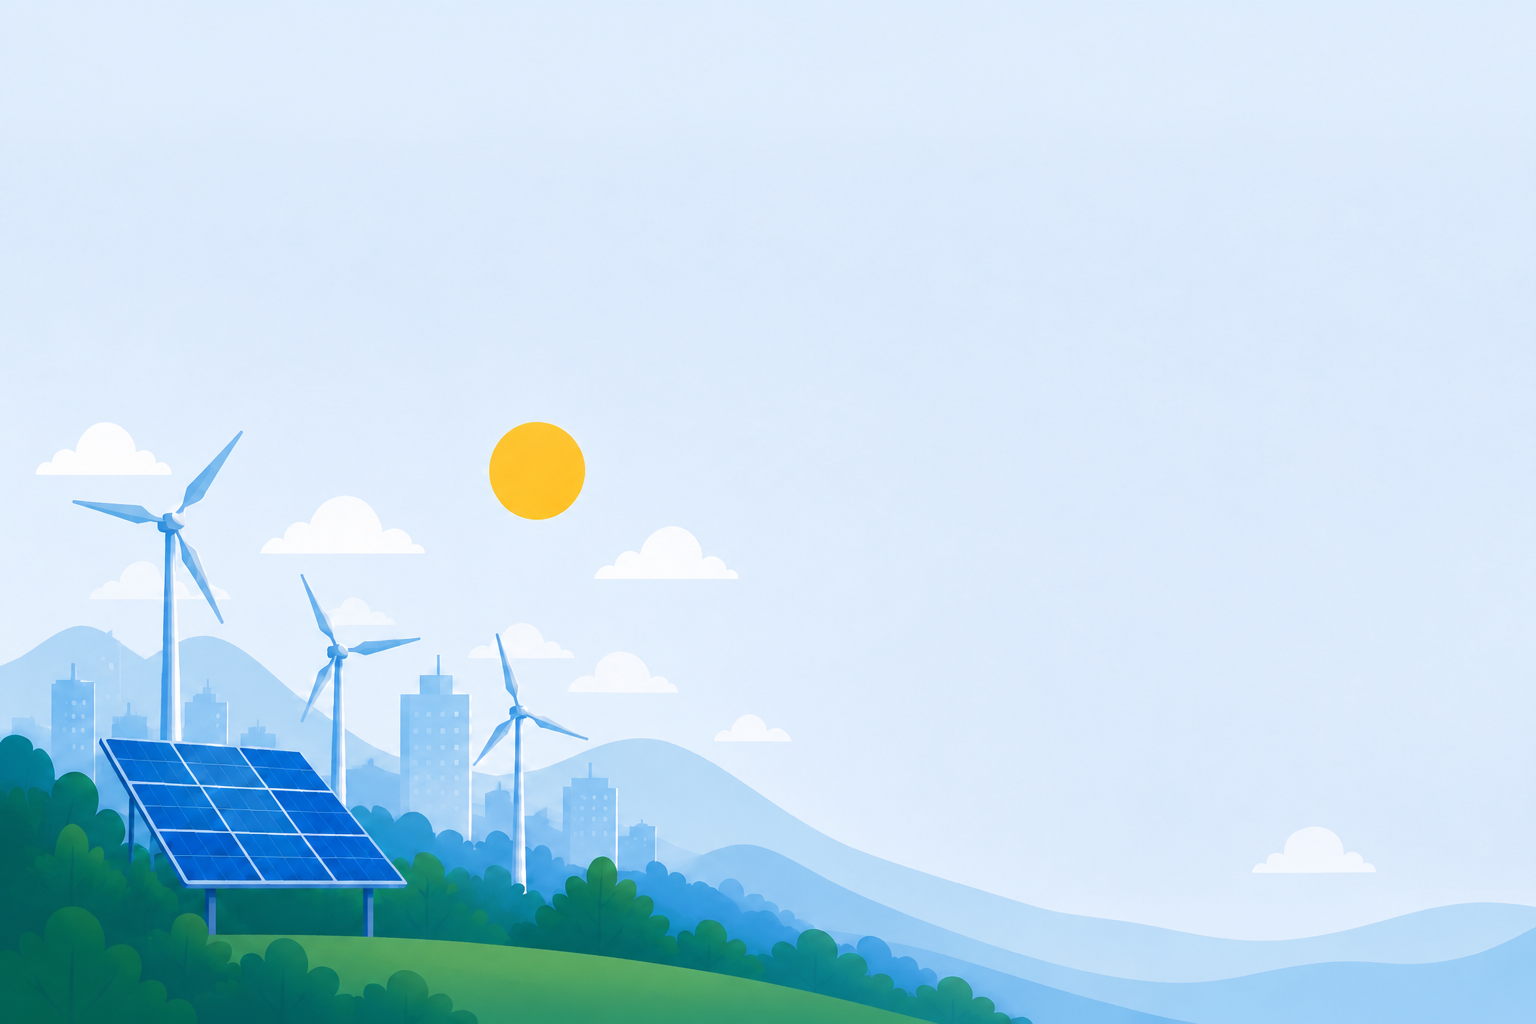
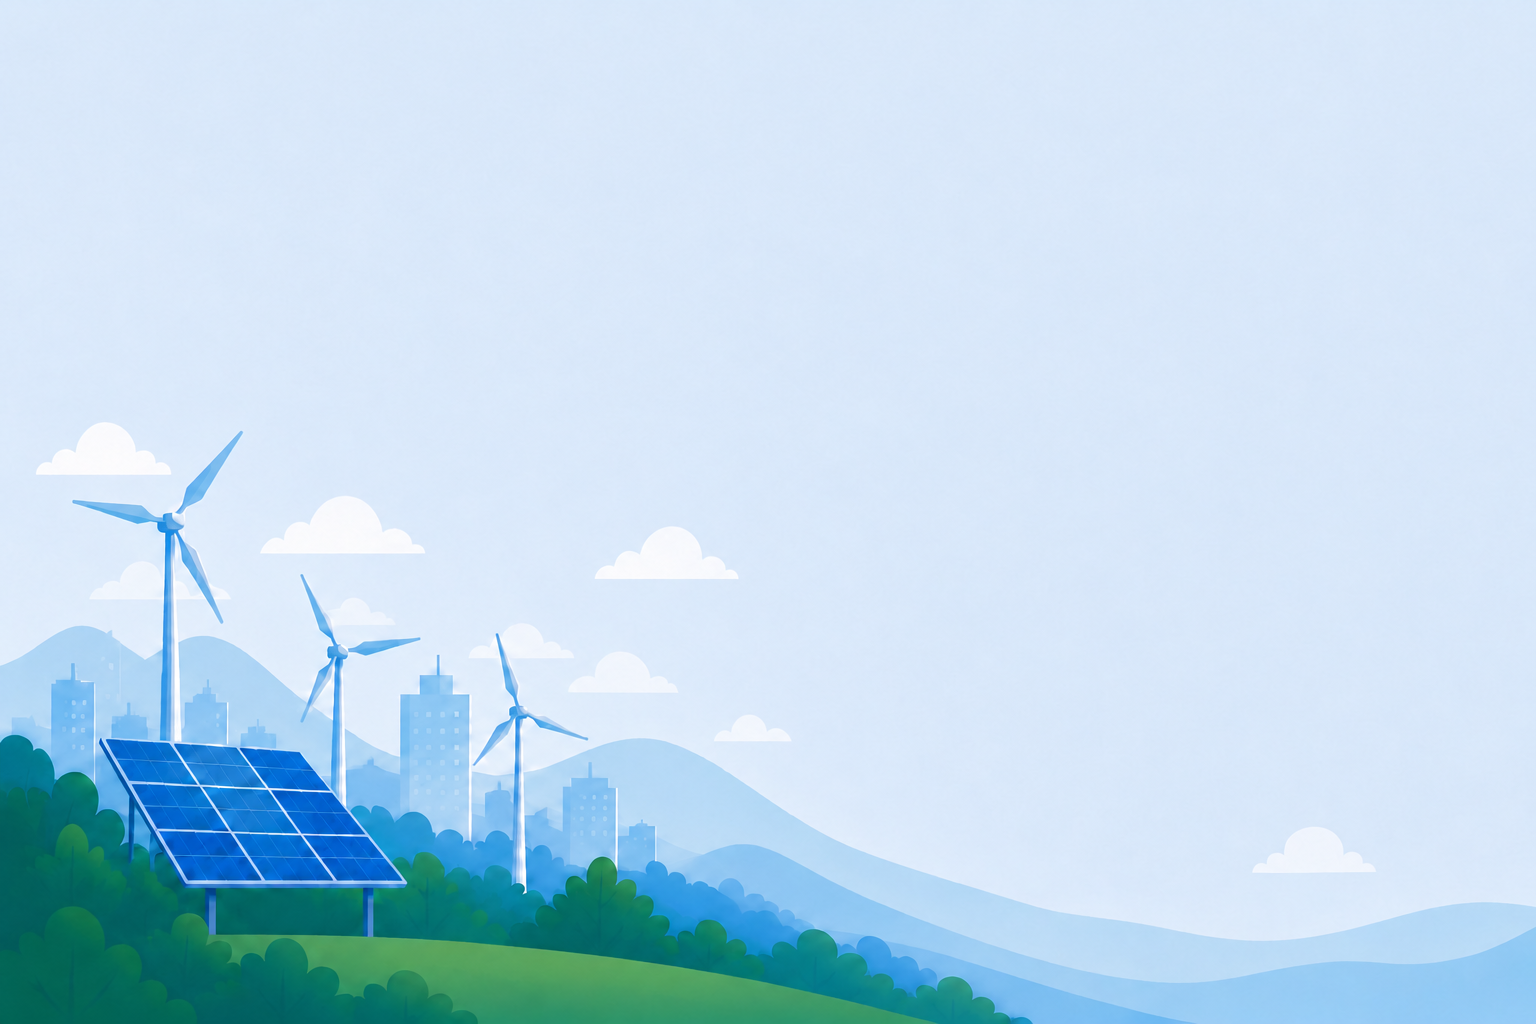
refactor: ajusta disposição de elementos no Register.css

Changed region(s): [[0.3125, 0.4062, 0.4062, 0.5312]]

diff --git a/frontend/src/pages/Register.css b/frontend/src/pages/Register.css
@@ -12,11 +12,9 @@ body{
 .container-register{
     width: 100%;
     min-height: 100vh;
-
     display: flex;
     justify-content: center;
     align-items: center;
-
     padding: 40px;
 }
 
@@ -24,27 +22,15 @@ body{
     width: 100%;
     max-width: 1400px;
     min-height: 730px;
-
     background-image: url("../assets/icon_backgroudRegister.png");
     background-repeat: no-repeat;
-
     background-size: cover;
     background-position: 20% center;
-
     border-radius: 30px;
     padding: 30px;
     padding-top: 10px;
     box-shadow: 0 5px 20px rgba(0,0,0,0.08);
 }
-
-.navbar-register{
-    display: flex;
-    justify-content: space-between;
-    align-items: center;
-
-    margin-bottom: 50px;
-}
-
 
 .logo-text{
      display: flex;
@@ -60,7 +46,7 @@ body{
     display: flex;
     justify-content: space-between;
     align-items: center;
-   
+    margin-top: 10px;   
 }
 
 .register-card nav{
@@ -75,37 +61,25 @@ nav a{
     font-weight: 500;
 }
 
-nav button{
-    border: none;
-    background: #f7c62f;
-
-    
-    border-radius: 12px;
-
-    font-weight: bold;
-
-    cursor: pointer;
-}
-
 .content-register{
     display: flex;
     justify-content: space-between;
-    align-items: center;
-
+    align-items: flex-start;
     gap: 50px;
 }
 
 .left-side{
     flex: 1;
+    display: flex;
+    flex-direction: column;
+    gap: 10px;
 }
 
 .left-side h2{
     font-size: 4rem;
     color: #0a1445;
-
+    margin-top: 80px;
     line-height: 1.1;
-
-    margin-bottom: 20px;
 }
 
 .left-side span{
@@ -115,63 +89,55 @@ nav button{
 .left-side p{
     font-size: 1.2rem;
     color: #4b5563;
-
     max-width: 500px;
-
     line-height: 1.6;
+     
 }
 
 .right-side{
     width: 450px;
 }
 
-form{
+.right-side form{
     background: white;
-
     padding: 40px;
-
     border-radius: 25px;
-
     box-shadow: 0 5px 20px rgba(0,0,0,0.08);
-
     display: flex;
     flex-direction: column;
-
-    gap: 20px;
+    gap: 30px;
+    margin-top: 35px;
+    margin-right: 60px;
 }
 
-form h1{
+.right-side form h1{
     color: #0a1445;
     font-size: 2rem;
 }
 
-form p{
+.right-side form p{
     color: #6b7280;
     margin-bottom: 10px;
 }
 
-form input{
+.right-side form input{
     padding: 16px;
-
     border-radius: 12px;
     border: 1px solid #d1d5db;
-
     outline: none;
-
     font-size: 1rem;
 }
 
-form button{
+.right-side form button{
     padding: 16px;
-
     border: none;
-
     background: #f7c62f;
-
     border-radius: 12px;
-
     font-size: 1rem;
     font-weight: bold;
-
     cursor: pointer;
+}
+
+.right-side form button:hover{
+    background-color:#e0b126;
 }

diff --git a/frontend/src/components/Navbar.css b/frontend/src/components/Navbar.css
@@ -39,9 +39,7 @@ nav a {
   padding: 12px 24px;
   border-radius: 10px;
   cursor: pointer;
-
   border: 2px solid #facc15;
-
   color: #facc15;
 }
 
@@ -53,13 +51,12 @@ nav a {
 .btn-login {
   background: white;
   color: #2563eb;
-
   border: 2px solid #2563eb;
-
   padding: 12px 24px;
   border-radius: 10px;
   cursor: pointer;
 }
+
 .btn-login:hover{
     background-color:#2563eb;
     color: white;